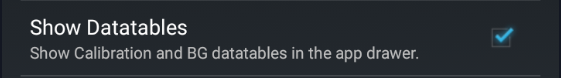
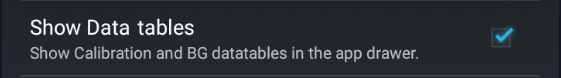
Watch Broadcast API

Changed region(s): [[0.2121, 0.2308, 0.3636, 0.4615]]

diff --git a/docs/changelog.md b/docs/changelog.md
@@ -1,3 +1,14 @@
+!!!note  
+    Most releases contain new Crowdin translations, not mentioned in comments.
+
+</br>
+
+[11th Jul 2022](https://github.com/NightscoutFoundation/xDrip/releases/tag/2022.07.11)	**Watch broadcast** ([WatchDrip+](https://bigdigital.home.blog/2022/06/16/watchdrip-a-new-application-for-xdrip-watch-integration))
+
+[ 6th Jul 2022](https://github.com/NightscoutFoundation/xDrip/releases/tag/2022.07.06)	Settings export toast message fix
+
+[ 5th Jul 2022](https://github.com/NightscoutFoundation/xDrip/releases/tag/2022.07.05)	Add stats range, rename transmitter ID in system status, typo
+
 [ 1st Jul 2022](https://github.com/NightscoutFoundation/xDrip/releases/tag/2022.07.01)	Notify monthly engineering mode is on
 
 [28th Jun 2022](https://github.com/NightscoutFoundation/xDrip/releases/tag/2022.06.28)	Multiple insulins treatment digits
@@ -100,11 +111,11 @@
 
 [15th Feb 2022](https://github.com/NightscoutFoundation/xDrip/releases/tag/2022.02.15)	Gradle actions upgrade to V2, manual slot selection
 
-[ 9th Feb 2022](https://github.com/NightscoutFoundation/xDrip/releases/tag/2022.02.09)	Dex share authentication fix
+[ 9th Feb 2022](https://github.com/NightscoutFoundation/xDrip/releases/tag/2022.02.09)	Dex share authentication, wrong detection of Wear on Android watches
 
-[31st Jan 2022](https://github.com/NightscoutFoundation/xDrip/releases/tag/2022.01.31)	Gradle, date, external status fixed
+[31st Jan 2022](https://github.com/NightscoutFoundation/xDrip/releases/tag/2022.01.31)	Gradle, date, external status
 
-[28th Jan 2022](https://github.com/NightscoutFoundation/xDrip/releases/tag/2022.01.28)	Date parsing fix, G6 backfill fix for Wear
+[28th Jan 2022](https://github.com/NightscoutFoundation/xDrip/releases/tag/2022.01.28)	Date parsing fix, G6 backfill for Wear
 
 [27th Jan 2022](https://github.com/NightscoutFoundation/xDrip/releases/tag/2022.01.27)	Make preferences translatable, add grams to carbs treatments
 
@@ -124,6 +135,16 @@
 
 [ 8th Dec 2021](https://github.com/NightscoutFoundation/xDrip/releases/tag/2021.12.08)	[Update channel dependencies](https://github.com/NightscoutFoundation/xDrip/pull/1888), basic http authentication
 
-[ 2nd Dec 2021](https://github.com/NightscoutFoundation/xDrip/releases/tag/2021.12.02)	Enhance DexShareFollow service, 
+[ 2nd Dec 2021](https://github.com/NightscoutFoundation/xDrip/releases/tag/2021.12.02)	Enhance DexShareFollow service, trend arrow
 
 [ 1st Dec 2021](https://github.com/NightscoutFoundation/xDrip/releases/tag/2021.12.01)	[No delay for the ascending volume profile](https://github.com/NightscoutFoundation/xDrip/pull/1834)
+
+[23rd Nov 2021](https://github.com/NightscoutFoundation/xDrip/releases/tag/2021.11.23)	
+
+[22nd Nov 2021](https://github.com/NightscoutFoundation/xDrip/releases/tag/2021.11.22)	Libre trend
+
+[18th Nov 2021](https://github.com/NightscoutFoundation/xDrip/releases/tag/2021.11.18)	NumberWall
+
+[17th Nov 2021](https://github.com/NightscoutFoundation/xDrip/releases/tag/2021.11.17)	Libre
+
+[16th Nov 2021](https://github.com/NightscoutFoundation/xDrip/releases/tag/2021.11.16)	

diff --git a/docs/smartwatch/miband.md b/docs/smartwatch/miband.md
@@ -5,19 +5,7 @@
 
 You can use these guidelines for the official xDrip+ release and forked versions.
 
-xDrip+ Official Release supports MiBand 2, 3 and 4.
-
-Artem's forked releases support more models (table below). If you want updates on future models read [here](https://www.patreon.com/posts/67845754).
-
-| Forked release                                               | Base xDrip+ version | MiBand        | AmazFit                                                      |
-| ------------------------------------------------------------ | ------------------- | ------------- | ------------------------------------------------------------ |
-| [Broadcast 0.3](https://www.dropbox.com/s/8xtboyvlsd3wo14/xdrip_BroadcastAPI_0.3.apk?dl=0) | 02.06.2022          | 2, 3, 4, 5, 6 | Bip, Bip Lite, Bip S, Bip S Lite<br/>GTR, GTR2, GTR2e, GTS2, GTS2e, GTR42, GTS2 mini |
-| [0.7](https://www.dropbox.com/s/j3es4pzv0advssa/xdrip-miband_0.7.apk?dl=1) | 13.01.2022          | 2, 3, 4, 5, 6 | Bip, Bip Lite, Bip S<br/>GTR, GTR2, GTR2e, GTS2, GTS2e, GTR42, GTS2 mini |
-| [0.6.3](https://www.dropbox.com/s/87le7l9y9xyqe6v/xdrip-miband_0.6.3.apk?dl=1) CareLink Follow | 24.04.2021          | 2, 3, 4, 5, 6 | Bip, Bip Lite, Bip S<br/>GTR, GTR2, GTR2e, GTS2, GTS2e, GTR42 |
-
-!!!warning "Forked versions"  
-    If you want to change xDrip+ to a forked version make sure to [backup](../../troubleshoot/reinstall/) your data before uninstalling xDrip+.  
-    If you don't you'll most probably lose all your settings and data.
+xDrip+ Official Release supports MiBand 2, 3, 4 and broadcast to [WatchDrip+](https://bigdigital.home.blog/2022/06/16/watchdrip-a-new-application-for-xdrip-watch-integration).
 
 !!!note "Prerequisite"  
     Make sure you have BG readings in xDrip+ before trying to have them on your watch.  
@@ -56,7 +44,9 @@ Check a key file was created in the phone memory `freemyband` folder.
 
 You can uninstall the patched app. This is not mandatory. If you want to install the original app, use the same email account to login.
 
-## xDrip+ official and forked versions **not** using WatchDrip+
+## Not using WatchDrip+
+
+!!!note "Only MiBand 2, 3 and 4"
 
 ### Setup xDrip+
 
@@ -149,11 +139,11 @@ Disable High MTU can be used when experiencing watchface display issues.
 
 <img src="../images/M-S-SW-MB4.png" style="zoom:75%;" />
 
-## Forked version with WatchDrip+
+## Using WatchDrip+
 
-This feature is pending merging with xDrip+ official repository.
+### Install [WatchDrip+](https://bigdigital.home.blog/2022/06/16/watchdrip-a-new-application-for-xdrip-watch-integration/)
 
-### Install [WatchDrip](https://bigdigital.home.blog/2022/06/16/watchdrip-a-new-application-for-xdrip-watch-integration/)+
+!!!note "Disable MiBand in xDrip+ if you use WatchDrip+"
 
 ### Setup xDrip+
 
@@ -163,4 +153,4 @@ Enable Broadcast Service API in Settings -> Inter-app Settings
 
 </br>
 
-[*Last modified 1/7/2022*](https://github.com/NightscoutFoundation/xDrip/releases/tag/2022.07.01)
+[*Last modified 11/7/2022*](https://github.com/NightscoutFoundation/xDrip/releases/tag/2022.07.11)

diff --git a/docs/smartwatch/smartwatch.md b/docs/smartwatch/smartwatch.md
@@ -49,7 +49,9 @@ Unless you still own a LeFun W3, F3, F3S, F11 or F12 band this is not of any use
 #### [MiBand](../miband)
 
 MiBand integration is the result of the huge work of [Artem](https://bigdigital.home.blog/).  
-Only MiBand 3 and 4 are supported by the official xDrip+ version.
+Many smartwatches and smartbands are now supported using the companion app WatchDrip+.
+
+If you use WatchDrip+ you should disable MiBand.
 
 <img src="../images/M-S-SW7.png" style="zoom:75%;" />
 
@@ -130,4 +132,4 @@ By [Roboleo1010](https://apps.garmin.com/en-US/developer/b61690c3-5e5c-4c4e-afe9
 
 </br>
 
-[*Last modified 28/3/2022*](https://github.com/NightscoutFoundation/xDrip/releases/tag/2022.03.27)
+[*Last modified 11/7/2022*](https://github.com/NightscoutFoundation/xDrip/releases/tag/2022.07.11)

diff --git a/docs/install/download.md b/docs/install/download.md
@@ -48,8 +48,6 @@ Some developers add features and customizations that are not available in the of
     you will need to uninstall it first.  
     The same applies for the other way round (from forked to official).
 
-Artem's forks supporting various smartbands are available [here](https://bigdigital.home.blog/category/xdrip/) to download.
-
 Bence's forks for CareLink follower are available [here](https://github.com/benceszasz/xDripCareLinkFollower/releases).
 
 </br>
@@ -79,4 +77,4 @@ Once downloaded a variant, proceed like a normal xDrip+ install.
 
 </br>
 
-[*Last modified 3/4/2022*](https://github.com/NightscoutFoundation/xDrip/releases/tag/2022.04.03)
+[*Last modified 11/7/2022*](https://github.com/NightscoutFoundation/xDrip/releases/tag/2022.07.11)

diff --git a/docs/install/webfollower.md b/docs/install/webfollower.md
@@ -13,7 +13,7 @@
    <img src="../images/M-S-HDS-WF3.png" style="zoom:76%;" />
 
 3. In the invitation email touch the Play Store link to install the [follower app](https://play.google.com/store/apps/details?id=org.nativescript.LibreLinkUp)  
-   You can use the same account than above or create a new one  
+   Create an account for the follower app (recommended)  
    Make sure you have readings  
    You can then uninstall the follower app
 
@@ -33,4 +33,4 @@ If no data is visible and no error message pops-up you might need to [Start sens
 
 </br>
 
-[*Last modified 28/6/2022*](https://github.com/NightscoutFoundation/xDrip/releases/tag/2022.06.20b)
+[*Last modified 1/7/2022*](https://github.com/NightscoutFoundation/xDrip/releases/tag/2022.07.01)

diff --git a/docs/use/interapp.md b/docs/use/interapp.md
@@ -196,6 +196,12 @@ This should be the current cumulative rate bpm on the device measuring. Not a hi
 
 </br>
 
+### Broadcast Service API
 
+This service allows broadcast of xDrip+ values as an API and can be used by external apps like [WatchDrip+](https://bigdigital.home.blog/2022/06/16/watchdrip-a-new-application-for-xdrip-watch-integration).
 
-[*Last modified 1/6/2022*](https://github.com/NightscoutFoundation/xDrip/releases/tag/2022.06.01)
+<img src="../images/M-S-IASi.png" style="zoom:76%;" />
+
+</br>
+
+[*Last modified 11/7/2022*](https://github.com/NightscoutFoundation/xDrip/releases/tag/2022.07.11)

diff --git a/docs/calibrate/calibrate.md b/docs/calibrate/calibrate.md
@@ -43,7 +43,7 @@ Libre 2 patched app will use its own proprietary algorithm (an old version thoug
 
 Before calibrating check your [settings](../advancedcal).
 
-One thing you want to enable is [datatables](../../use/lesscommon/#show-datatables) in the main menu. This will really help understanding when things go wrong.
+One thing you want to enable is [data tables](../../use/lesscommon/#show-data-tables) in the main menu. This will really help understanding when things go wrong.
 
 ### First calibration
 

diff --git a/docs/calibrate/troubleshoot.md b/docs/calibrate/troubleshoot.md
@@ -4,7 +4,7 @@ If you use xDrip+ with a G5 or G6 and native algorithm, see [here](https://navid
 
 ### xDrip+ Algorithm
 
-Enable [datatables](../../use/lesscommon/#show-datatables) for more information.
+Enable [data tables](../../use/lesscommon/#show-data-tables) for more information.
 
 #### No data after initial calibration
 

diff --git a/docs/use/lesscommon.md b/docs/use/lesscommon.md
@@ -95,7 +95,7 @@ You need to know what you want to debug and set the correct level. Make sure to 
 
 <img src="../images/M-S-LCS9c.png" style="zoom:75%;" />
 
-### Show Datatables
+### Show Data tables
 
 This feature is extremely useful if you calibrate using the xDrip+ algorithm (non native).
 
